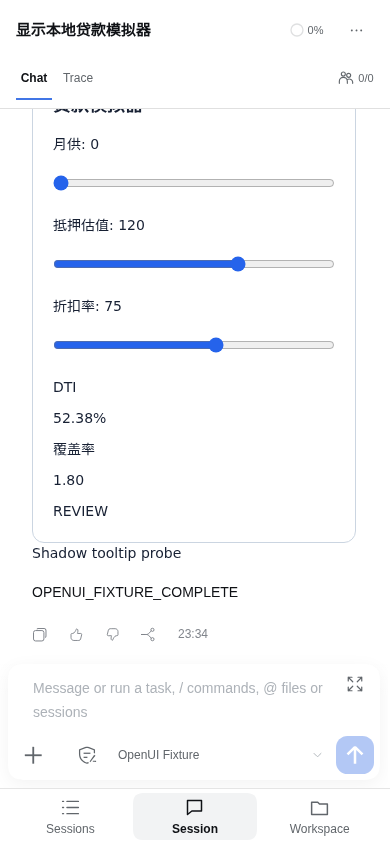
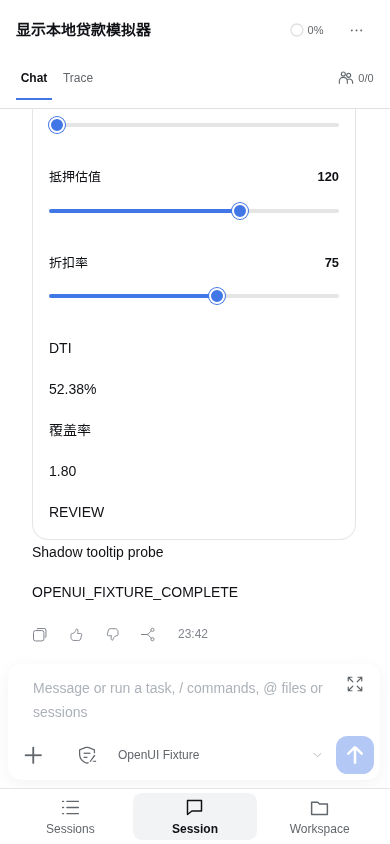
test(mobile): revalidate styled sliders and await session navigation

diff --git a/tests/browser/helpers/demo.ts b/tests/browser/helpers/demo.ts
@@ -28,6 +28,8 @@ export async function fixtureSession(page: Page): Promise<void> {
   if (mobile) await mobileNavigation.click()
   await page.getByRole('button', { name: 'New session', exact: true }).first().click()
   if (mobile) await page.locator('[data-workbench-destination="session"]').click()
+  // Wait for the async navigation before treating the old composer as the new session.
+  await expect(page.locator('[data-chat-flow]')).toHaveCount(0)
   const editor = page.locator('[data-composer-input="true"]')
   if (await editor.getAttribute('contenteditable') !== 'true') {
     await page.getByRole('button', { name: 'Choose workspace', exact: true }).click()

diff --git a/docs/evidence/mobile.md b/docs/evidence/mobile.md
@@ -10,13 +10,17 @@
 | 默认 DTI 76.19%、覆盖率 1.80、DECLINE | 通过 | 通过 |
 | 月供调到 0 后 DTI 52.38%、REVIEW | 真实 CDP 触摸拖动通过 | 触摸点击 + 可信鼠标拖动通过 |
 | 交互不增加 provider 请求 | +1 仅初次提示词 | +1 仅初次提示词 |
-| 滑块命中框 ≥40px | 282×44px | 277×44px |
+| 滑块命中框 ≥40px | 290×44px | 285×44px |
 | 滑块 touch-action | pan-y | pan-y |
 | 文档无横向溢出 | 390/390px | 390/390px |
-| ShadowRoot tooltip 样式隔离探针 | block、visible、21px | block、visible、21px |
+| ShadowRoot tooltip 样式隔离探针 | block、visible、24px | block、visible、24px |
 | Invalid hook call / React / OpenUI 异常 | 无 | 无 |
 
 **不能把自动化通过当成真机验收完成。** Playwright WebKit 没有受信任 touch-drag API，所以 WebKit 的物理手指拖动仍须手机实测。当前组件目录没有真正的 tooltip 组件；此处在实际岛的 ShadowRoot 中注入临时 `role=tooltip` 探针，验证祖先确实位于 `[data-phase]` 内时仍不受手机插件的全局隐藏规则影响，不声称已验证真实 tooltip 的打开/关闭交互。
+
+## 新版样式复验
+
+本页截图与度量已更新为 task-8 的正式岛产物（614632 bytes）：自绘 4px 轨道、16px 拇指，仍保持原生 type=range 语义和 44px 命中高度、pan-y。复验仍为双引擎全通过；未把此前旧外观截图作为新外观证据。
 
 ## 命令与输出
 
@@ -27,9 +31,9 @@ flock .locks/demo.lock node scripts/browser-test.mjs tests/browser/mobile-openui
 退出码 **0**：
 
 ```text
-mobile coexistence: chromium (3.7s)
-mobile coexistence: webkit (7.9s)
-2 passed (12.2s)
+mobile coexistence: chromium (5.7s)
+mobile coexistence: webkit (7.6s)
+2 passed (13.9s)
 ```
 
 runner 自动使用 `.demo-home/mobile`、port 0、安装固定 3.3.0 Release URL、复制贷款回复至隔离 Home 的可写副本；测试后联合清理 Host。日志确认安装 `dsh-web-mobile` 的 3.3.0 tgz 与 `dsh-openui` link。
